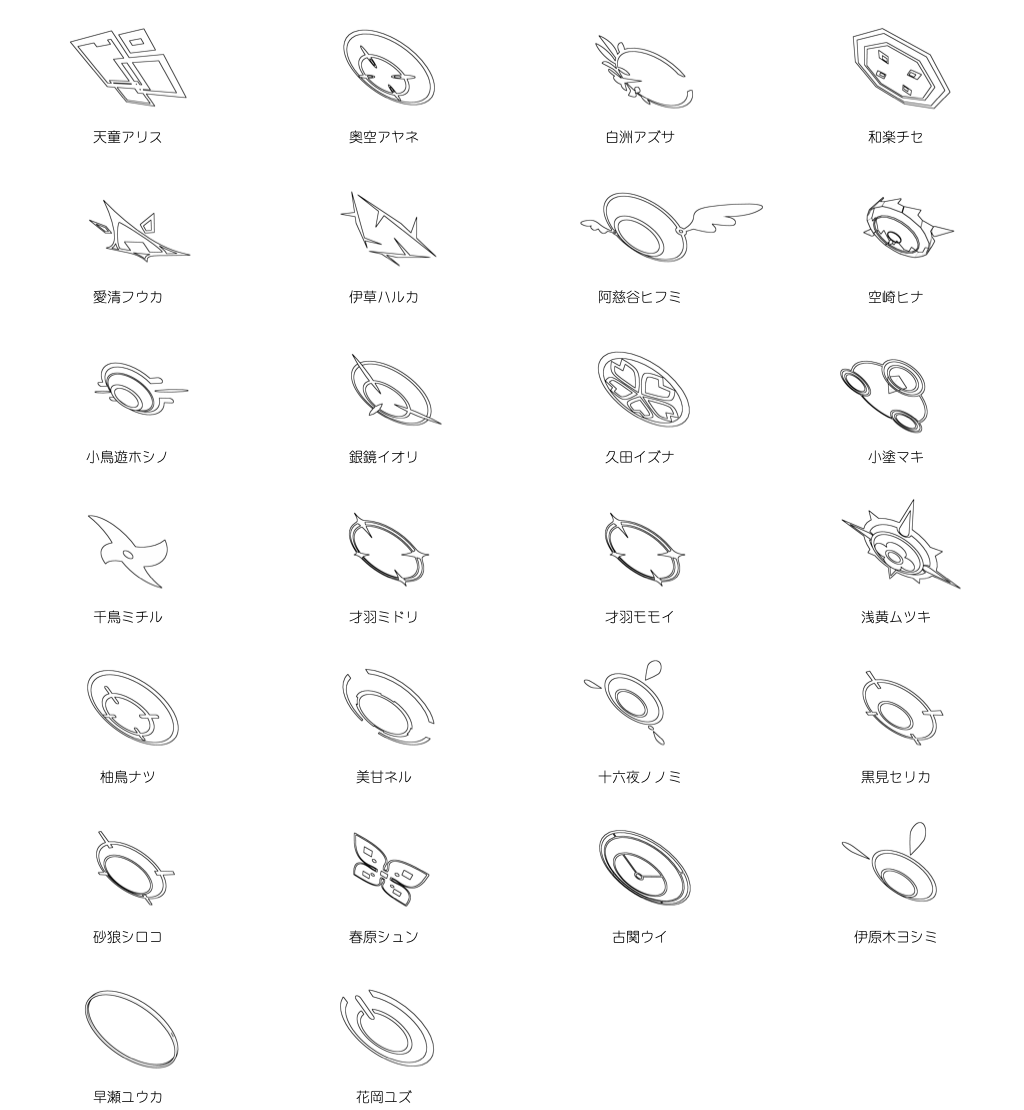
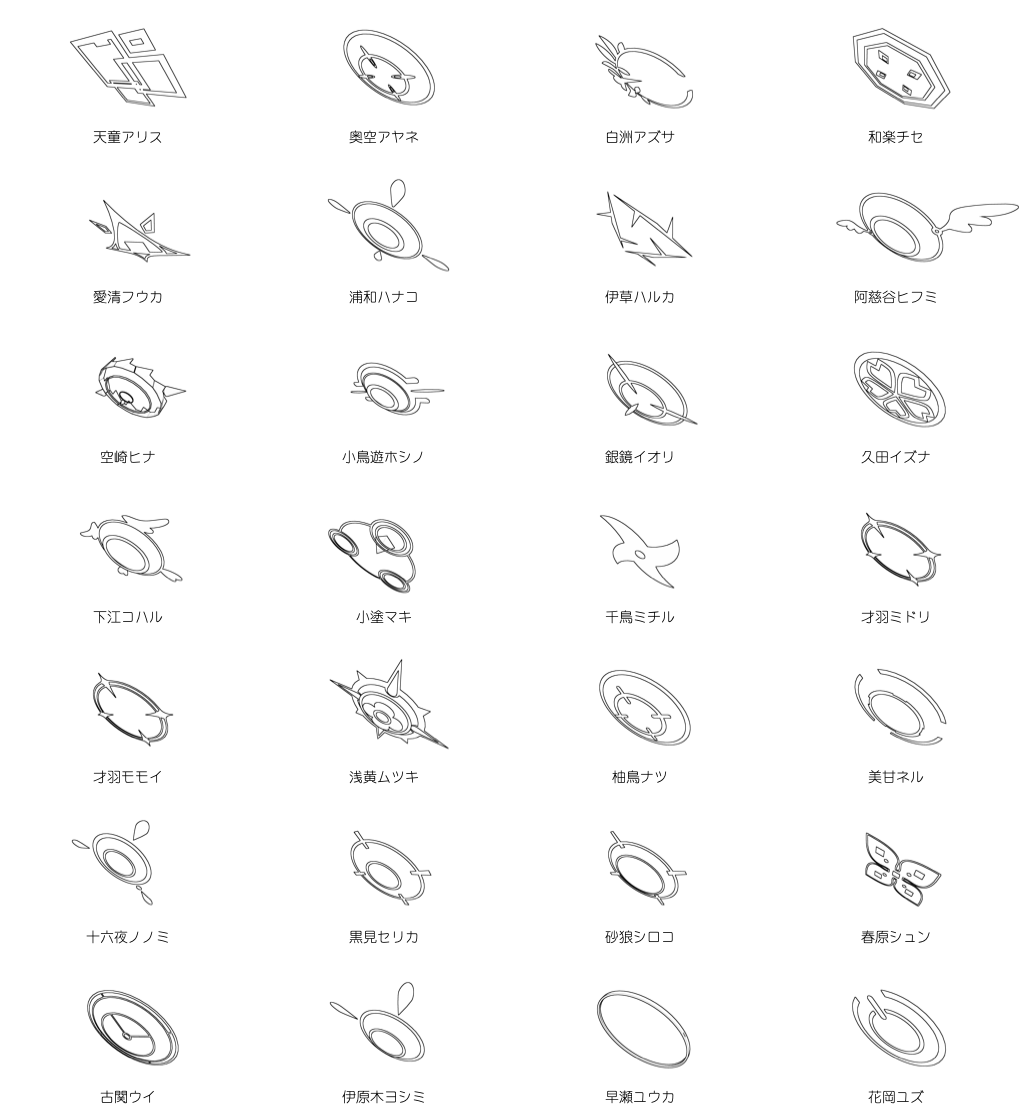
浦和ハナコ、下江コハルのHaloを追加しました。

diff --git a/README.md b/README.md
@@ -20,12 +20,14 @@ BlueArchiveに登場するキャラクター達の頭の上に乗っているHal
 - 白洲アズサ
 - 和楽チセ
 - 愛清フウカ
+- 浦和ハナコ
 - 伊草ハルカ
 - 阿慈谷ヒフミ
 - 空崎ヒナ
 - 小鳥遊ホシノ
 - 銀鏡イオリ
 - 久田イズナ
+- 下江コハル
 - 小塗マキ
 - 千鳥ミチル
 - 才羽ミドリ
